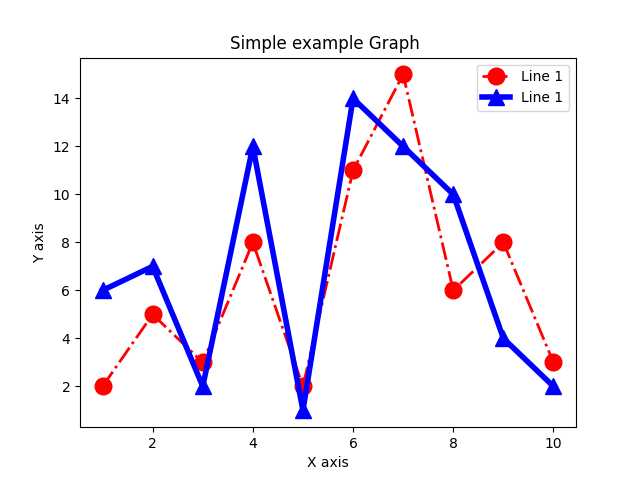
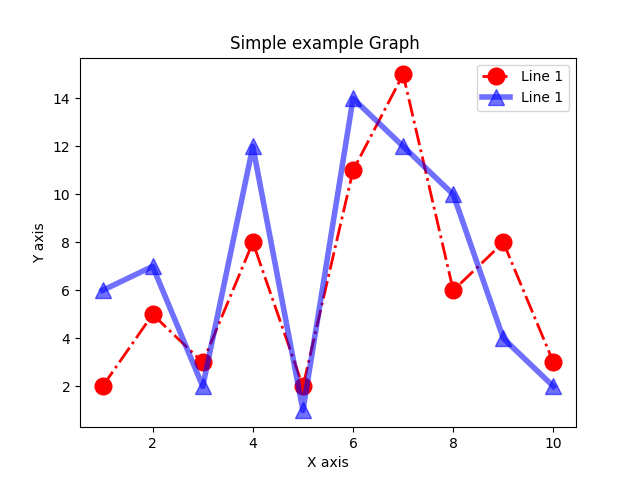
Object oriented in matplotlib

diff --git a/OOinterface.py b/OOinterface.py
@@ -4,7 +4,7 @@ y1 = [2,5,3,8,2,11,15,6,8,3]
 y2 = [6,7,2,12,1,14,12,10,4,2]
 fig, ax = plt.subplots()
 ax.plot(x,y1,label = "Line 1", color = "Red", marker = "o", linestyle ="dashdot", linewidth = 2, markersize =12)
-ax.plot(x,y2,label = "Line 1", color = "Blue", marker = "^",linestyle ="solid", linewidth = 4, markersize =12 )
+ax.plot(x,y2,label = "Line 1", color = "Blue", marker = "^",linestyle ="solid", linewidth = 4, markersize =12, alpha=0.56)
 ax.set_xlabel("X axis")
 ax.set_ylabel("Y axis")
 ax.set_title("Simple example Graph ")
